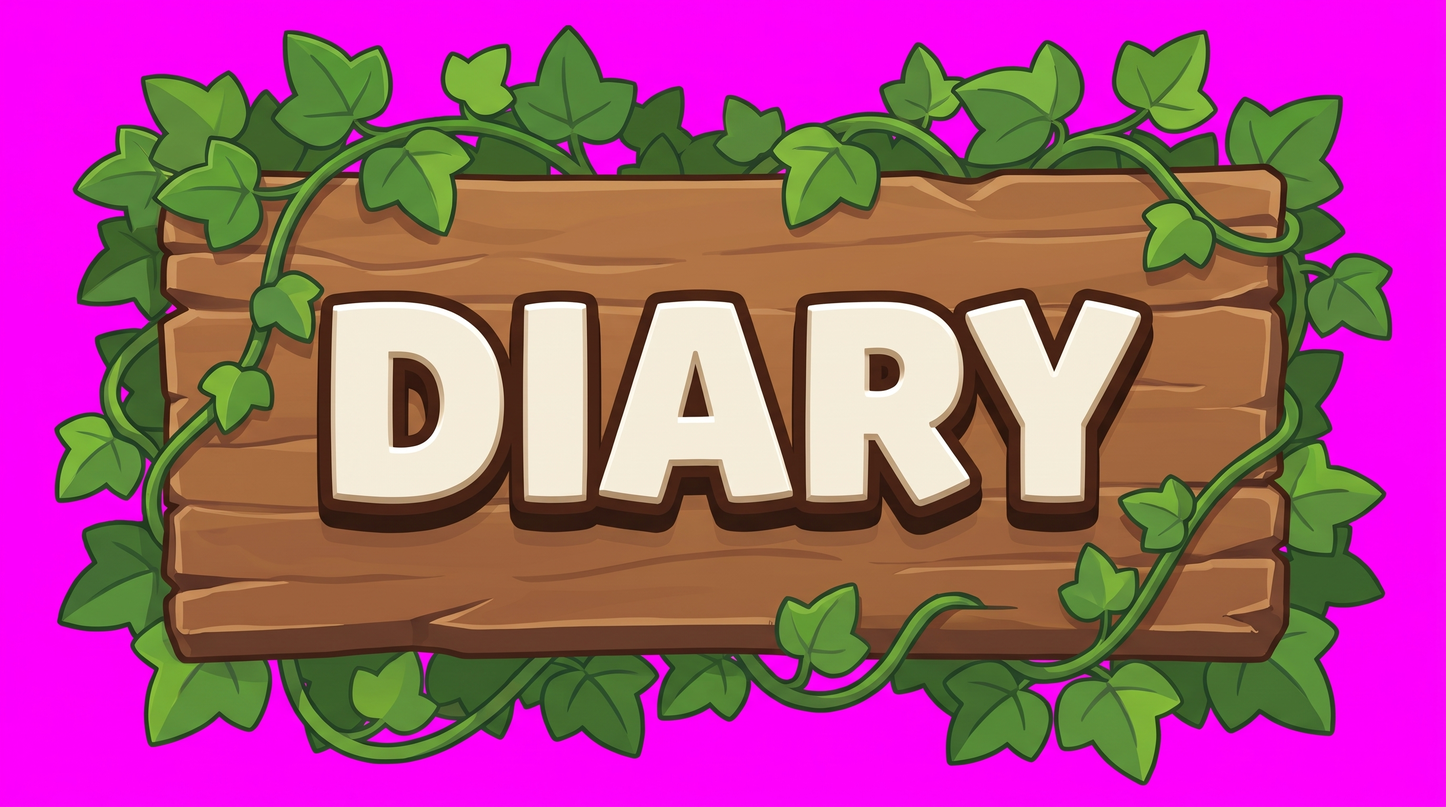
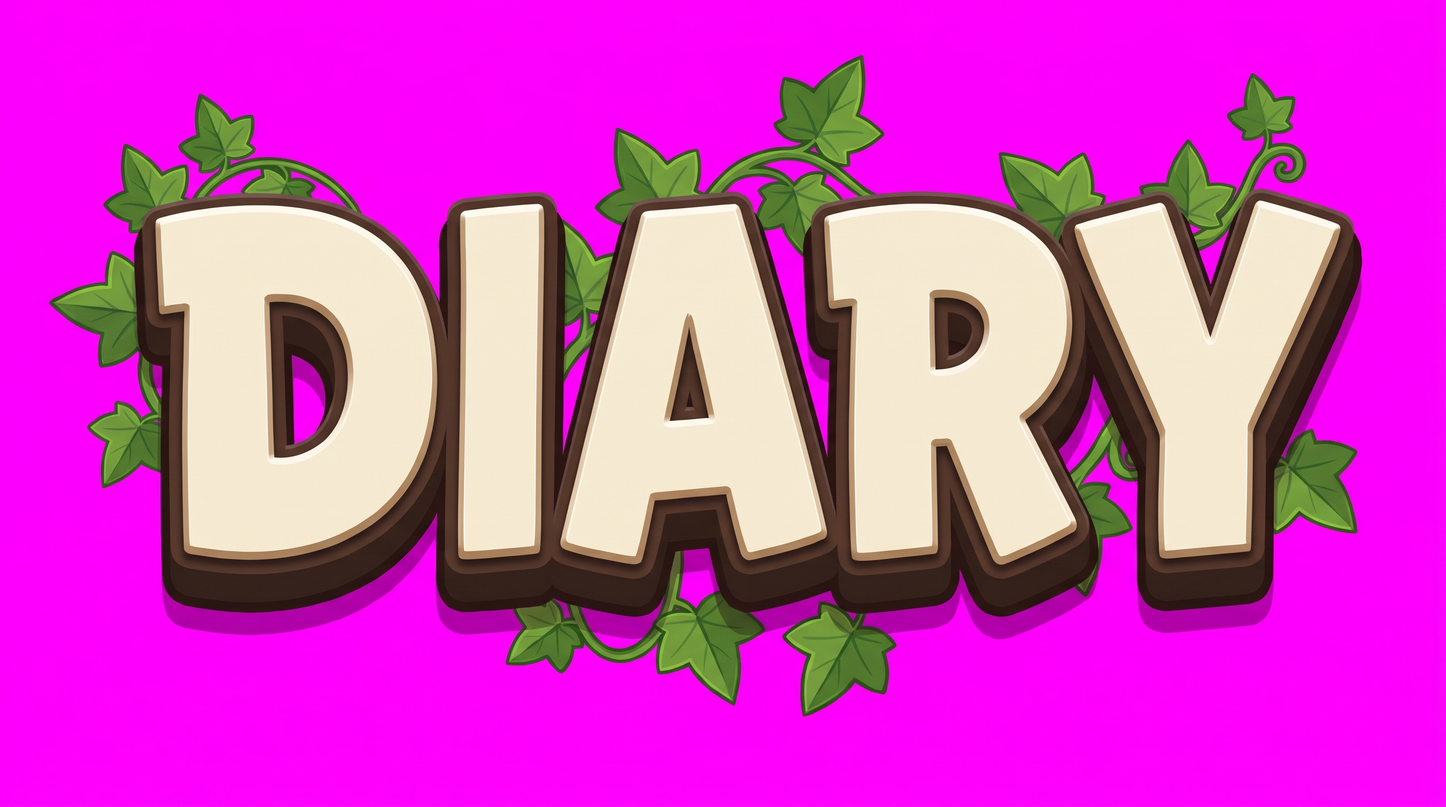
Opening v3: 'Hey, this is Bob!' before 'And welcome to... Dev! Diary!'; DIARY in DEV lettering with ivy only
Claude-Session: https://claude.ai/code/session_018fZnw6t5rnnM4Nw3xjPMyE

diff --git a/skills/drive-narrated-clips/SKILL.md b/skills/drive-narrated-clips/SKILL.md
@@ -96,3 +96,9 @@ Several clips from Bob for one diary: join them into one file first (ffmpeg conc
 - The headline is thrown word by word, big and centred, synced to Bob saying it: get his word times with Whisper, then
   `--title-words "THE@4.72,CLOWN@5.18,BOSS@5.44,|GOT@5.66,MEANER@5.92" --title-end 7.0` (`|` starts the second line). Subtitles for that line are skipped automatically.
 - Music: `--music brand/devdiary_music_01.mp3` (Lyria 3 Clip, playful carnival instrumental). It sits about 10 dB under Bob and ducks further whenever he speaks.
+
+
+## Opening v3 (current)
+
+Three uncaptioned lines: `{"at":0.2,"text":"(excited) Hey, this is Bob!"}`, `{"at":1.75,"text":"(excited) And welcome to... Dev!"}` ("Dev" lands 1.5 s into the line, after the pause, so 3.25 s), `{"at":4.02,"text":"(excited) Diary!"}`. Narration starts at 5.27 s; `dd_intro.py --dev 3.25 --diary 4.02 --end 5.07`, `--title-start`/title words from ~5.3 s. Fill 0-5.07 s with one striking shot (slow it with `@0.8` if short).
+DIARY art is now the DEV typography (cream-white) with ivy only, no wooden plank (`brand/diary_alpha.png`, made with both the logo and the DEV image as references).
